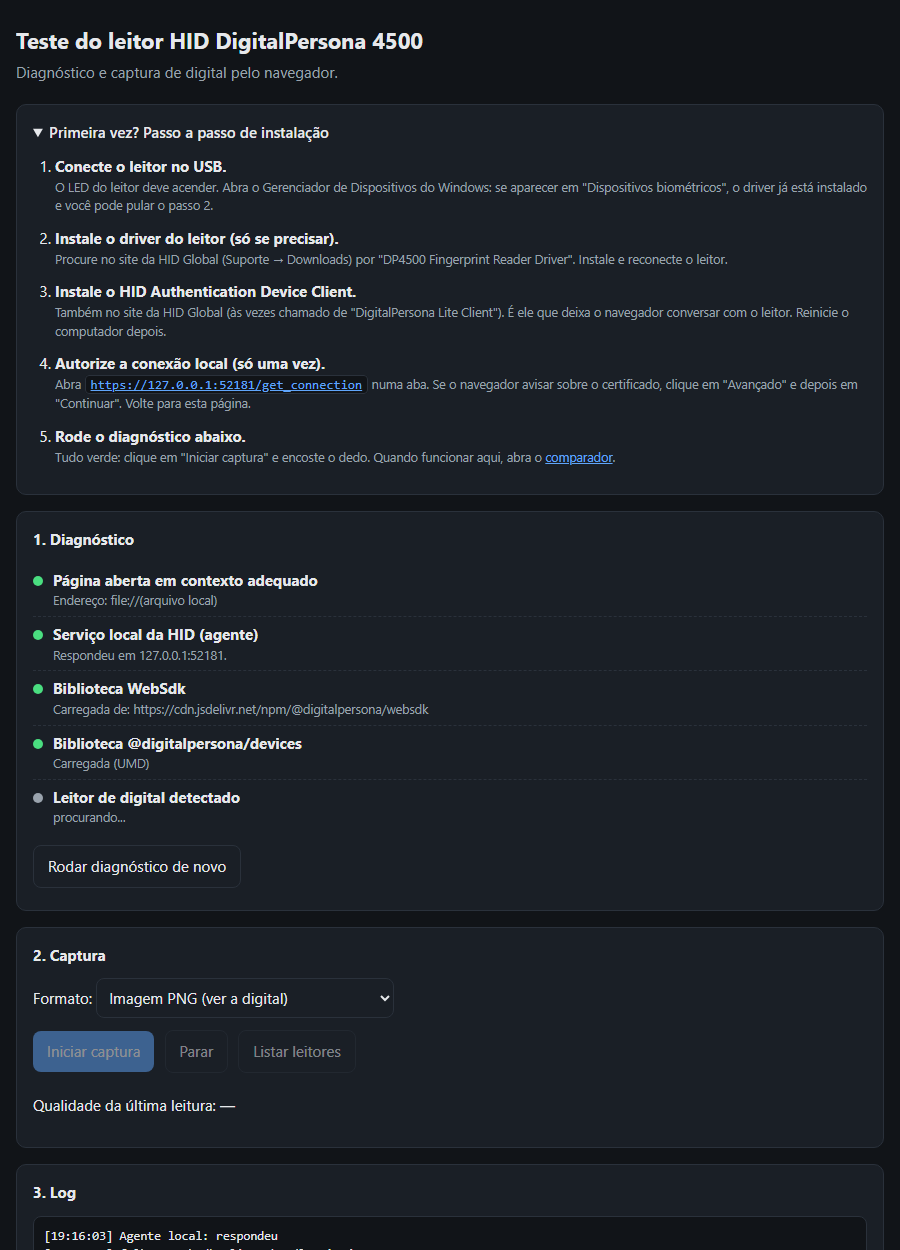
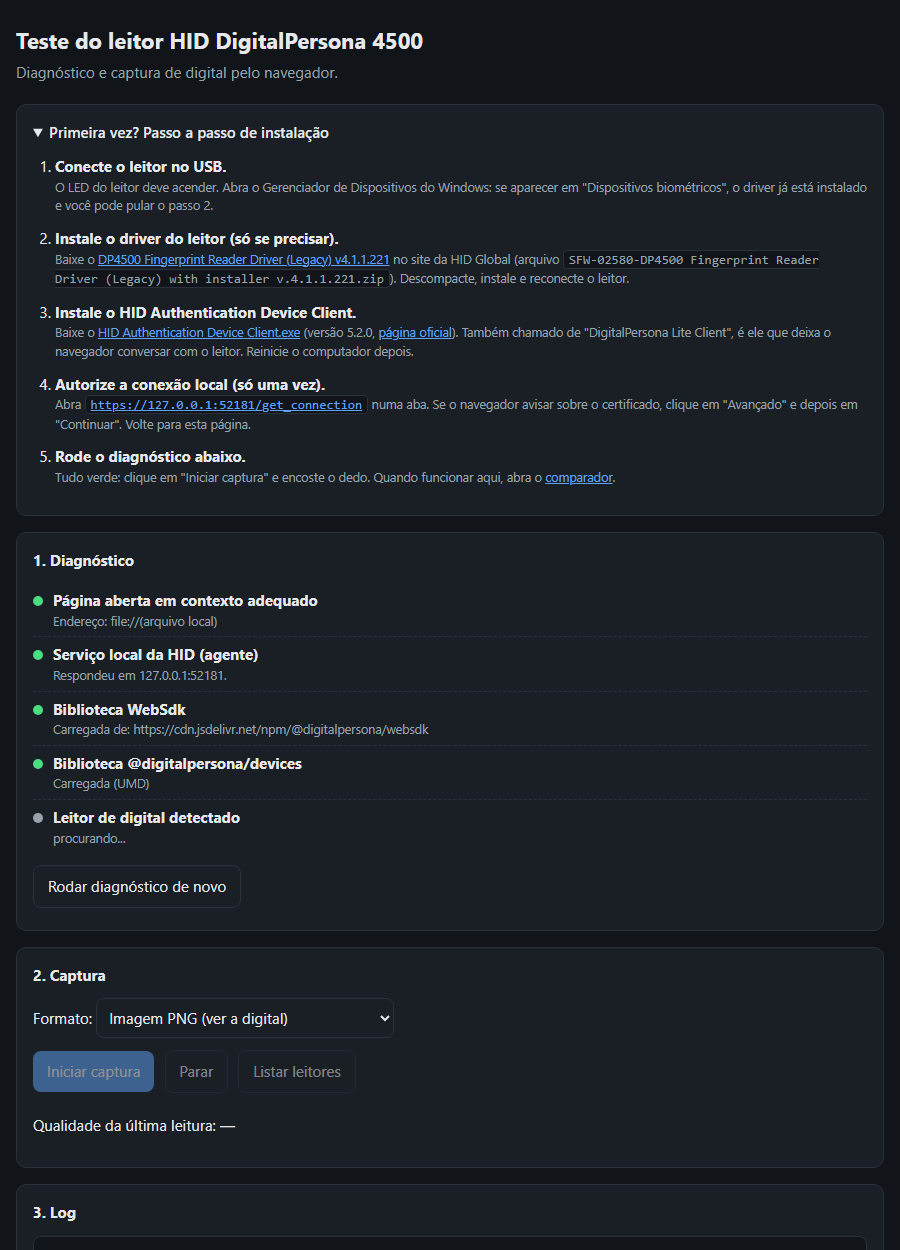
Links oficiais do driver DP4500 e do HID Authentication Device Client

diff --git a/index.html b/index.html
@@ -49,9 +49,9 @@
       <li><b>Conecte o leitor no USB.</b>
         <small>O LED do leitor deve acender. Abra o Gerenciador de Dispositivos do Windows: se aparecer em "Dispositivos biométricos", o driver já está instalado e você pode pular o passo 2.</small></li>
       <li><b>Instale o driver do leitor (só se precisar).</b>
-        <small>Procure no site da HID Global (Suporte → Downloads) por "DP4500 Fingerprint Reader Driver". Instale e reconecte o leitor.</small></li>
+        <small>Baixe o <a href="https://www.hidglobal.com/drivers/49061" target="_blank" rel="noopener">DP4500 Fingerprint Reader Driver (Legacy) v4.1.1.221</a> no site da HID Global (arquivo <code>SFW-02580-DP4500 Fingerprint Reader Driver (Legacy) with installer v.4.1.1.221.zip</code>). Descompacte, instale e reconecte o leitor.</small></li>
       <li><b>Instale o HID Authentication Device Client.</b>
-        <small>Também no site da HID Global (às vezes chamado de "DigitalPersona Lite Client"). É ele que deixa o navegador conversar com o leitor. Reinicie o computador depois.</small></li>
+        <small>Baixe o <a href="https://crossmatch.hid.gl/lite-client/store/5.2.0/HID%20Authentication%20Device%20Client.exe" target="_blank" rel="noopener">HID Authentication Device Client.exe</a> (versão 5.2.0, <a href="https://crossmatch.hid.gl/lite-client/" target="_blank" rel="noopener">página oficial</a>). Também chamado de "DigitalPersona Lite Client", é ele que deixa o navegador conversar com o leitor. Reinicie o computador depois.</small></li>
       <li><b>Autorize a conexão local (só uma vez).</b>
         <small>Abra <a href="https://127.0.0.1:52181/get_connection" target="_blank" rel="noopener"><code>https://127.0.0.1:52181/get_connection</code></a> numa aba. Se o navegador avisar sobre o certificado, clique em "Avançado" e depois em "Continuar". Volte para esta página.</small></li>
       <li><b>Rode o diagnóstico abaixo.</b>

diff --git a/README.md b/README.md
@@ -20,8 +20,8 @@ Duas páginas HTML, sem servidor e sem SDK pago, para:
 ## O que você precisa
 
 - Windows com o leitor **HID DigitalPersona 4500** (ou U.are.U 4500) no USB.
-- **Driver do leitor**: "DP4500 Fingerprint Reader Driver", disponível no site da HID Global (área de downloads da DigitalPersona).
-- **HID Authentication Device Client** (também chamado de *DigitalPersona Lite Client*), do mesmo site. É o programa que deixa o navegador conversar com o leitor. Ele fica rodando em `https://127.0.0.1:52181`.
+- **Driver do leitor** (só se o Windows não reconhecer o leitor): [DP4500 Fingerprint Reader Driver (Legacy) v4.1.1.221](https://www.hidglobal.com/drivers/49061), no site da HID Global. O arquivo baixado é `SFW-02580-DP4500 Fingerprint Reader Driver (Legacy) with installer v.4.1.1.221.zip`.
+- **HID Authentication Device Client** v5.2.0, também chamado de *DigitalPersona Lite Client*: [download direto](https://crossmatch.hid.gl/lite-client/store/5.2.0/HID%20Authentication%20Device%20Client.exe) ou [página oficial](https://crossmatch.hid.gl/lite-client/). É o programa que deixa o navegador conversar com o leitor. Ele fica rodando em `https://127.0.0.1:52181`.
 - Chrome ou Edge, com internet na primeira vez (as bibliotecas são baixadas de CDN).
 
 Os instaladores do fabricante **não fazem parte deste repositório**, porque a licença deles não permite redistribuição. Baixe sempre do site oficial.
